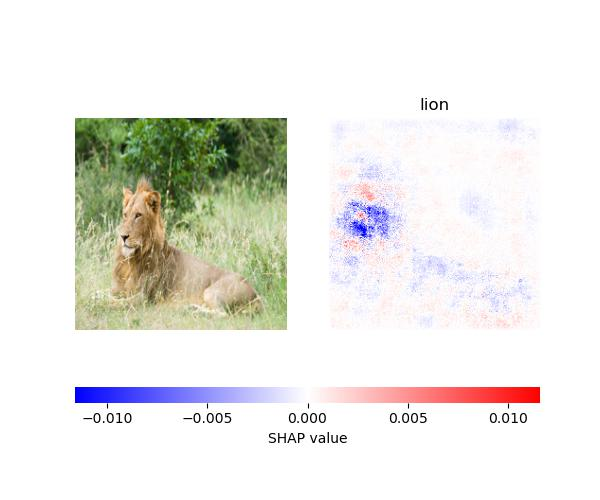
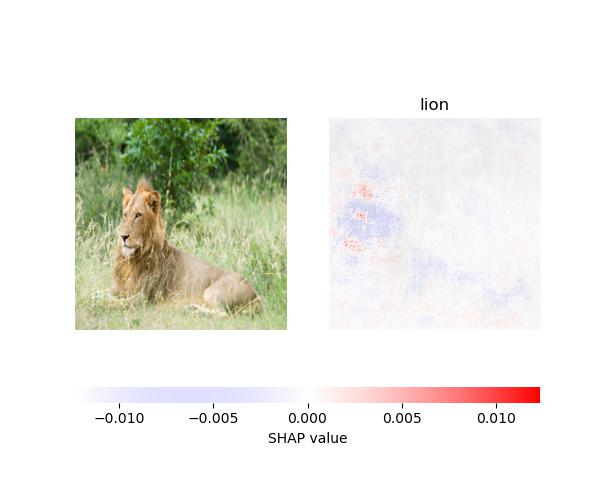
SHAP hotfix for colormap

Changed region(s): [[0.12, 0.75, 0.45, 0.87], [0.6, 0.75, 0.87, 0.87], [0.54, 0.36, 0.66, 0.54]]

diff --git a/methods/SHAP.py b/methods/SHAP.py
@@ -14,7 +14,15 @@ def explain(model, img, org_img, labels):
     labels = np.vectorize(lambda x: labels[str(x)][1])(indexes)
     shap_values = [np.swapaxes(np.swapaxes(s, 2, 3), 1, -1) for s in shap_values]
 
-    shap.image_plot(shap_values=shap_values, pixel_values=org_img.reshape(1, 224, 224, 3)/255, cmap='bwr', labels=labels, show=False)
+##############Move to Shap folder#######################
+    from matplotlib.colors import LinearSegmentedColormap
+    cmap = plt.cm.bwr
+    bwr = cmap(np.arange(cmap.N))
+    bwr[:,-1] = np.linspace(0, 1, cmap.N)
+    bwr = LinearSegmentedColormap.from_list("bwr", bwr)
+#######################################################
+
+    shap.image_plot(shap_values=shap_values, pixel_values=org_img.reshape(1, 224, 224, 3)/255, cmap=bwr, labels=labels, show=False)
 
     fig = plt.gcf()
     plt.close()

diff --git a/instruction_imgs.py b/instruction_imgs.py
@@ -45,4 +45,4 @@ for img_idx in range(4):
         SHAP.explain(model_used.model, img_prep_torch, img_org_np, labels).savefig(os.path.join("introduction", f"intro_SHAP_{model.name}_{img_name}"))
         # ige = integrated_gradients.IntegratedGradientsExplainer(model_used)
         # ige.explain(img_prep_torch).savefig(os.path.join("introduction", f"intro_IntegratedGradients_{model.name}_{img_name}"))
-        confidence_scores.explain(model_used, img_prep_torch, labels, 3).savefig(os.path.join("introduction", f"intro_ConfidenceScores_{model.name}_{img_name}"))
+        #confidence_scores.explain(model_used, img_prep_torch, labels, 3).savefig(os.path.join("introduction", f"intro_ConfidenceScores_{model.name}_{img_name}"))
